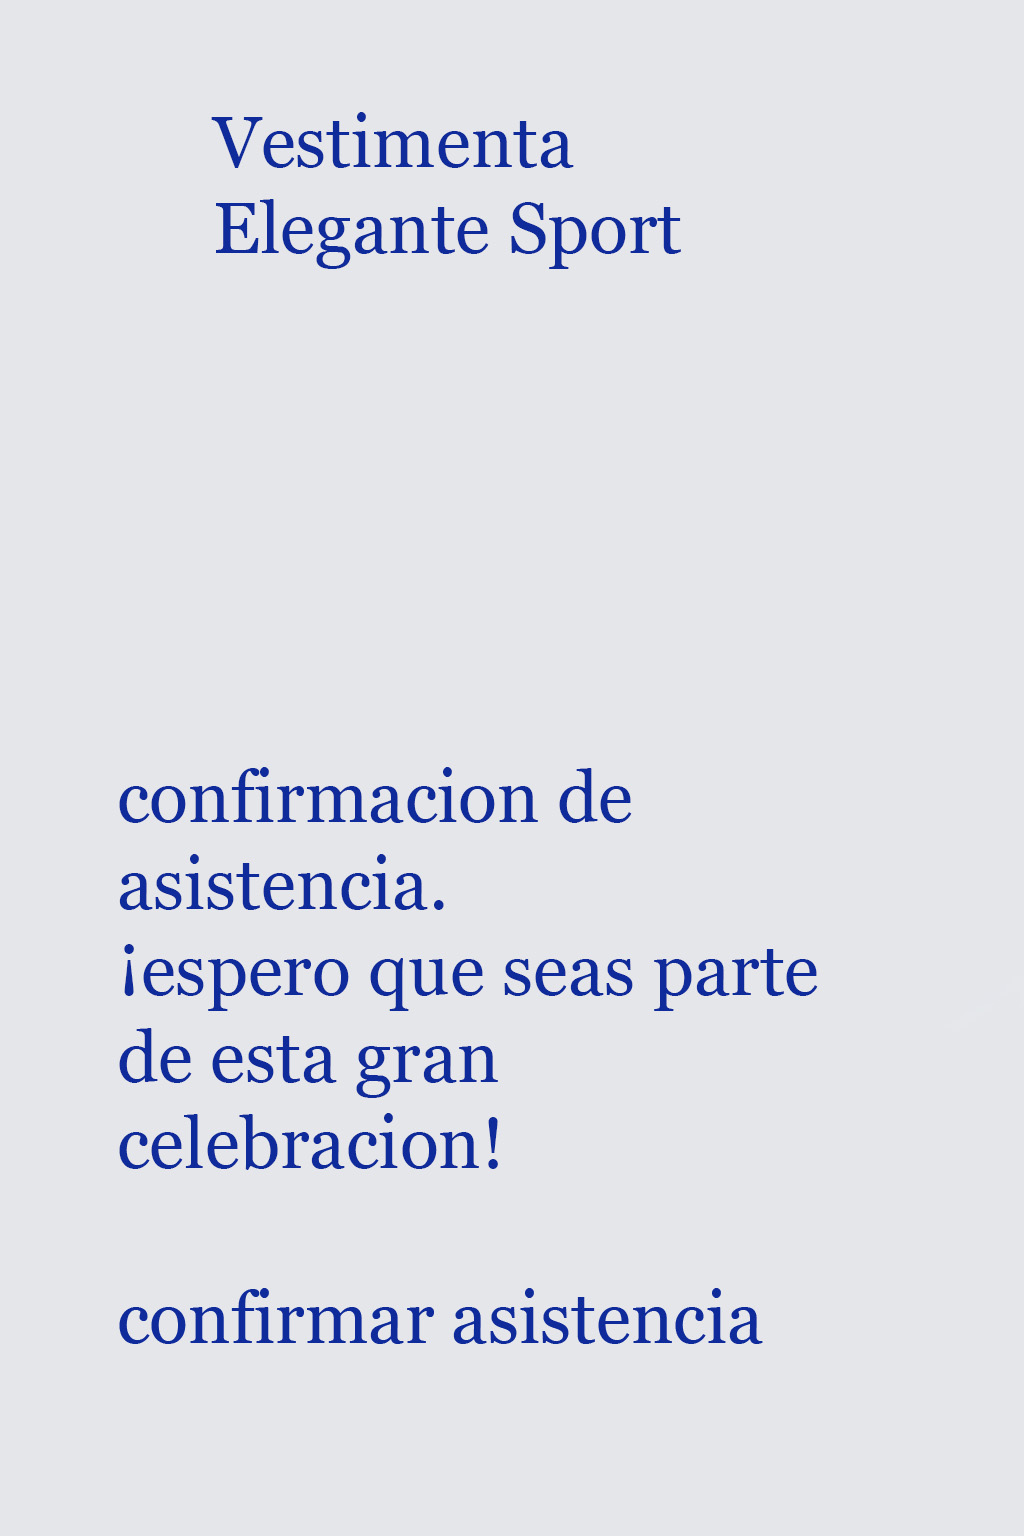
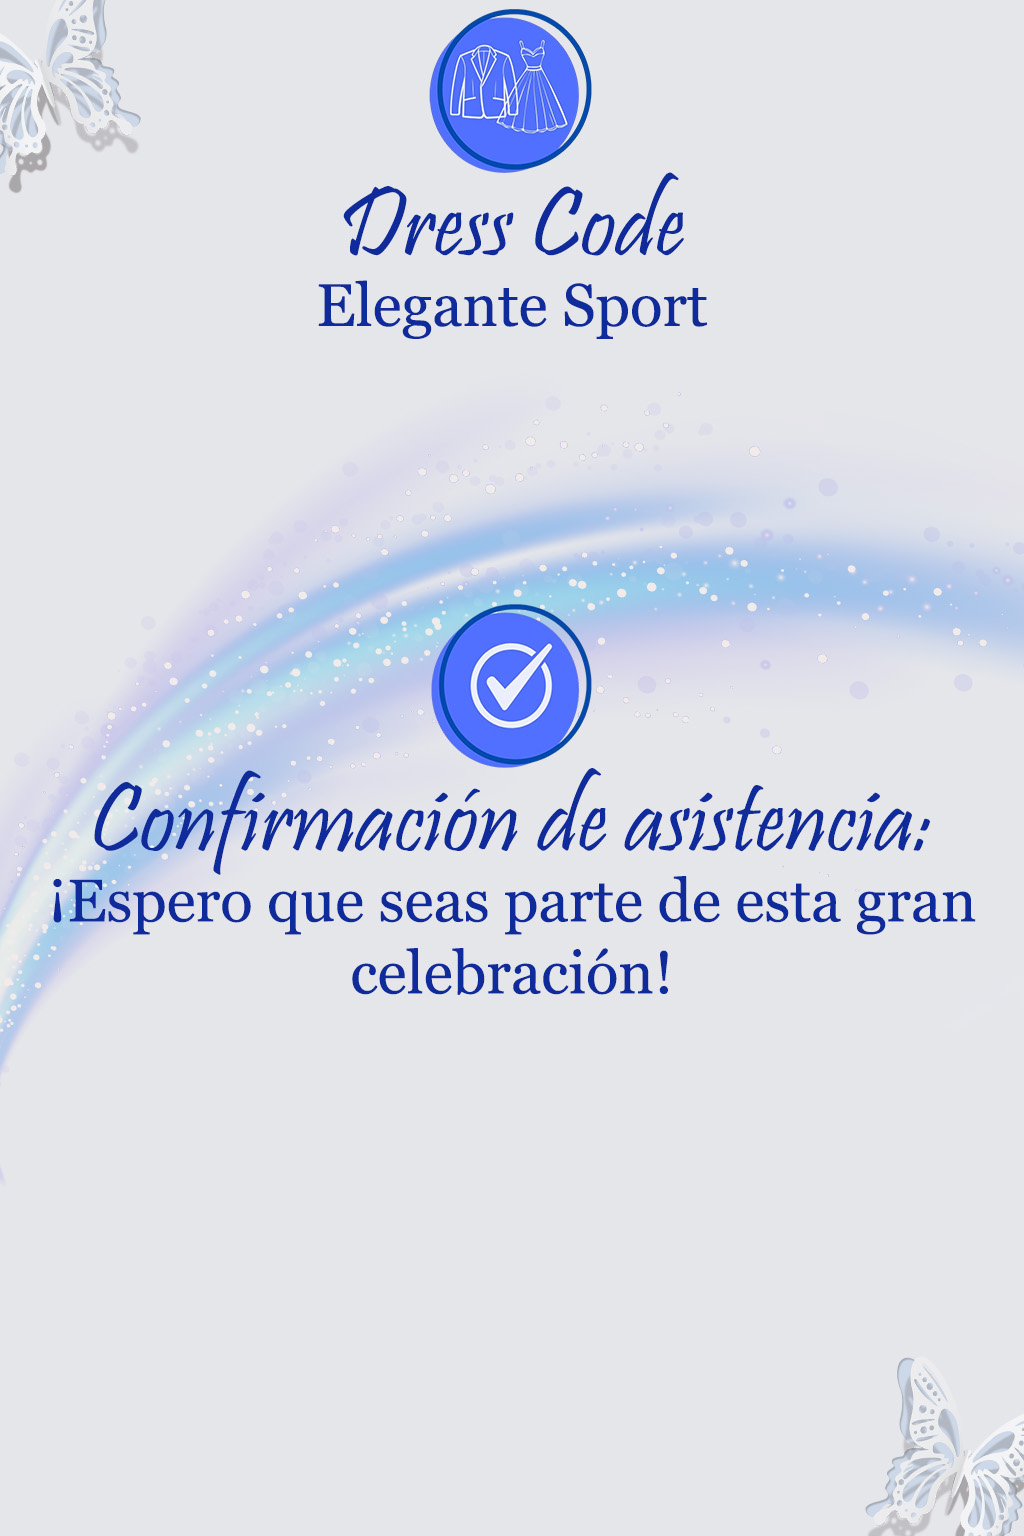
nuevo

diff --git a/styles.css b/styles.css
@@ -45,7 +45,7 @@ body {
   transform: translateX(-50%);
   font-family: 'Adelia', cursive;
   font-size: 60px;
-  color: rgb(6, 90, 187);
+  color: #0f2b9b;
   text-shadow: 2px 2px 4px rgba(0,0,0,0.5);
   z-index: 10; /* 🔝 Delante de las mariposas */
   display: flex;
@@ -79,7 +79,7 @@ body {
   text-align: center;
   font-size: 16px;
   color: white;
-  background-color: rgba(0, 0, 0, 0.6);
+  background-color: rgba(81, 113, 255, 0.89);
   padding: 8px;
   border-radius: 8px;
   max-width: 600px;
@@ -88,7 +88,7 @@ body {
 
 /* 🎵 Reproductor de audio */
 .reproductor-foto {
-  background-color: black;
+  background-color: rgba(81, 113, 255, 0.89);
   color: white;
   font-family: sans-serif;
   padding: 10px;
@@ -214,7 +214,7 @@ body {
 }
 
 .tiempo div {
-  background-color: rgba(0, 0, 0, 0.6);
+  background-color: rgba(81, 113, 255, 0.89);
   padding: 10px 15px;
   border-radius: 10px;
   min-width: 70px;
@@ -245,6 +245,16 @@ body {
     flotar 4s ease-in-out infinite; /* Flota en bucle */
 }
 
+/* 🦋 Mariposas grandes (usá esta clase si querés que algunas sean más grandes) */
+.mariposa.grande {
+  width: 110px; /* 🔧 Ajustá este valor para definir el tamaño de las mariposas grandes */
+}
+
+/* 🦋 Mariposas media (usá esta clase si querés que algunas sean más grandes) */
+.mariposa.media {
+  width: 90px; /* 🔧 Ajustá este valor para definir el tamaño de las mariposas grandes */
+}
+
 @keyframes fadeIn {
   from { opacity: 0; }
   to { opacity: 1; }
@@ -272,7 +282,7 @@ body {
     top: 38vh;
     left: 50vw;
   }
-
+  
    /* 🖼 Ajustes para fondos en celulares */
   .fondo2,
   .fondo3,
@@ -314,4 +324,28 @@ body {
   overflow: hidden;
   box-shadow: 0 0 10px rgba(0,0,0,0.3);
   z-index: 10;
+}
+
+.confirmar-asistencia {
+  position: absolute; /* 🔧 Permite ubicarlo libremente dentro del fondo */
+  bottom: 180px;        /* 📍 Distancia desde el borde inferior */
+  left: 50%;           /* 📌 Centrado horizontalmente */
+  transform: translateX(-50%);
+  z-index: 20;
+}
+
+.confirmar-asistencia a {
+  font-size: 20px;
+  color: white;
+  background-color: rgba(81, 113, 255, 0.89);
+  padding: 10px 20px;
+  border-radius: 8px;
+  text-decoration: none;
+  font-weight: bold;
+  box-shadow: 0 0 10px rgba(0,0,0,0.3);
+  transition: background-color 0.3s ease;
+}
+
+.confirmar-asistencia a:hover {
+  background-color: rgba(151, 150, 150, 0.514); /* 🎯 Efecto al pasar el mouse */
 }

diff --git a/index.html b/index.html
@@ -13,16 +13,14 @@
     </div>
 
        <!-- 🦋 Mariposas animadas -->
-     <img src="imagenes/mariposa 1.png" class="mariposa flotante" style="top: 20vh; left: 70vw;" />
-     <img src="imagenes/mariposa 2.png" class="mariposa flotante" style="top: 10vh; left: 30vw;" />
-     <img src="imagenes/mariposa 3.png" class="mariposa flotante" style="top: 35vh; left: 80vw;" />
-     <img src="imagenes/mariposa 4.png" class="mariposa" style="top: 50vh; left: 80vw;" />
+     <img src="imagenes/mariposa 1.png" class="mariposa grande flotante" style="top: 20vh; left: 70vw;" />
+     <img src="imagenes/mariposa 2.png" class="mariposa grande flotante" style="top: 10vh; left: 30vw;" />
+     <img src="imagenes/mariposa 3.png" class="mariposa grande flotante" style="top: 35vh; left: 80vw;" />
      <img src="imagenes/mariposa 5.png" class="mariposa" style="top: 30vh; left: 50vw;" />
      <img src="imagenes/mariposa 6.png" class="mariposa" style="top: 2vh; left: 10vw;" />
-     <img src="imagenes/mariposa 7.png" class="mariposa grande" style="top: 12vh; left: 55vw;" />
-     <img src="imagenes/mariposa 8.png" class="mariposa" style="top: 2vh; left: 80vw;" />
-     <img src="mariposa9.png" class="mariposa grande" style="top: 80%; left: 80%;" />
-     <img src="mariposa10.png" class="mariposa" style="top: 90%; left: 5%;" />
+     <img src="imagenes/mariposa 7.png" class="mariposa media" style="top: 09vh; left: 67vw;" />
+     <img src="imagenes/mariposa 8.png" class="mariposa media" style="top: 01vh; left: 78vw;" />
+     
     
       <!-- 🎵 Mensaje arriba del reproductor -->
 <div id="mensajeReproduccion" class="mensaje-reproduccion">
@@ -87,7 +85,11 @@
 
 
    </section>
-   <section class="fondo fondo4"></section>
+   <section class="fondo fondo4">
+    <div class="confirmar-asistencia">
+      <a href="https://tupagina.com/confirmacion" target="_blank">Confirmar asistencia</a>
+    </div>
+</section>
 
    <script src="script.js"></script>
 </body>
